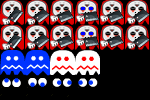
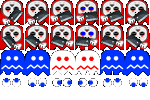
arreglo

diff --git a/PPacmanUSFX/Fantasma.cpp b/PPacmanUSFX/Fantasma.cpp
@@ -26,8 +26,8 @@ void Fantasma::move()
 				posicionXDestino = 1 + rand() % (anchoPantalla - ancho);
 				//random movement
 				RandMove = rand() % 2;
-				if (posicionX > posicionXDestino) { incrementoPosicionX = -1; }
-				else { incrementoPosicionX = 1; }
+				if (posicionX > posicionXDestino) { incrementoPosicionX = -1; numeroFramey = 1; }
+				else { incrementoPosicionX = 1; numeroFramey = 0;}
 			}
 			else { posicionX = posicionX + incrementoPosicionX * velocidadX; }
 		}
@@ -38,8 +38,8 @@ void Fantasma::move()
 				posicionXDestino = 1 + rand() % (anchoPantalla - ancho);
 				//random movement
 				RandMove = rand() % 2;
-				if (posicionX > posicionXDestino) { incrementoPosicionX = -1; }
-				else { incrementoPosicionX = 1; }
+				if (posicionX > posicionXDestino) { incrementoPosicionX = -1; numeroFramey = 1; }
+				else { incrementoPosicionX = 1; numeroFramey = 0; }
 			}
 			else { posicionX = posicionX + incrementoPosicionX * velocidadX; }
 		}
